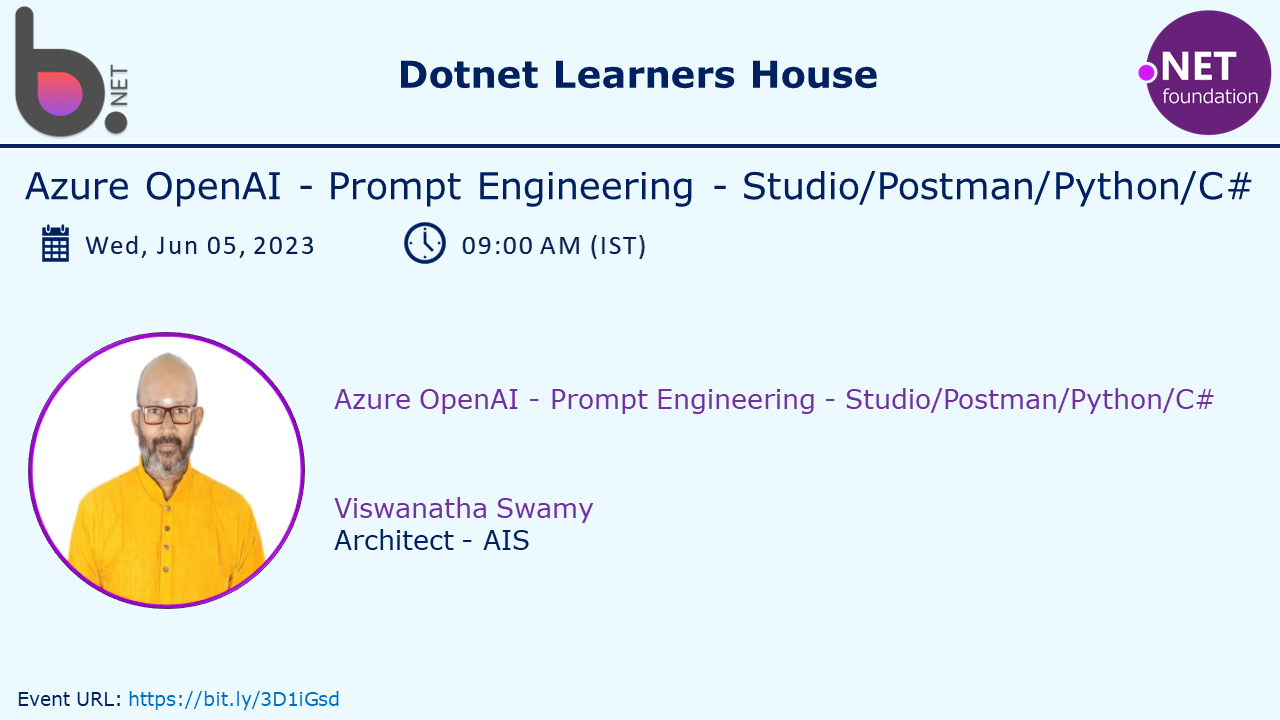
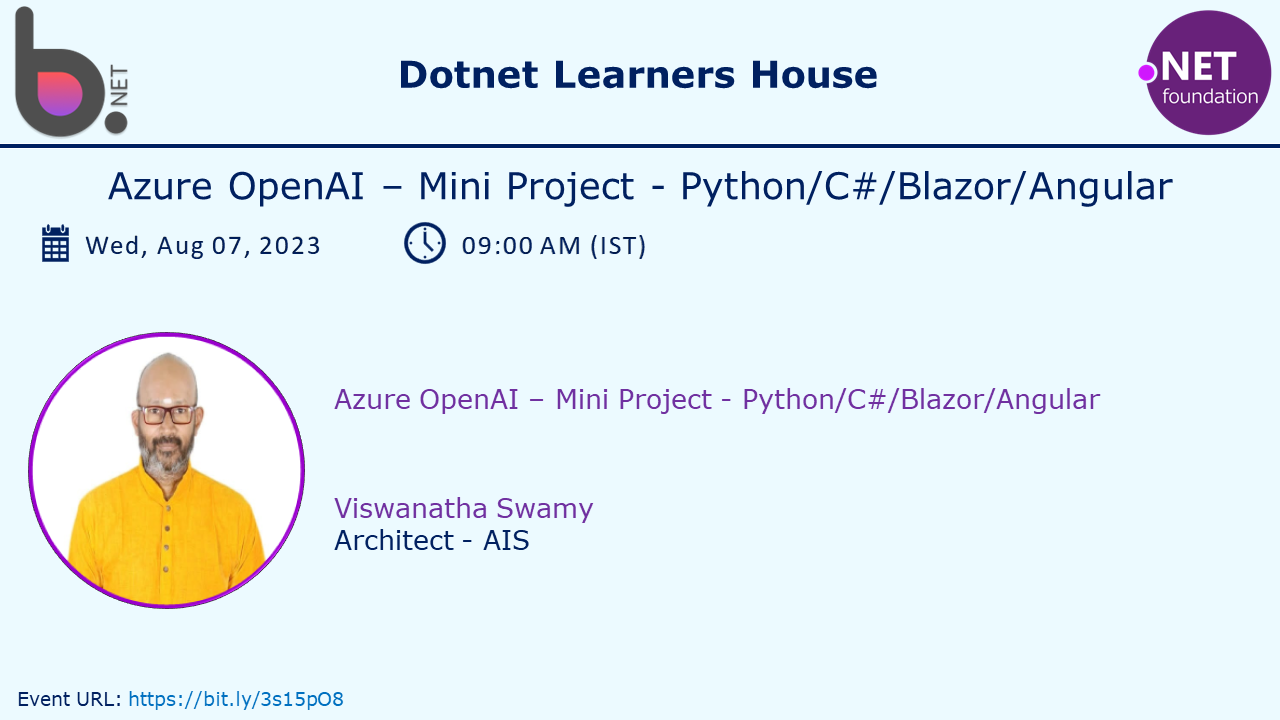
Swamy/07aug azure openai session (#63)
* Initial Version

* Changes

* Documentation

* Update README.md

* Changes

* Documentation Updates

* Documentation Updates

* Update README.md

* Changes

* Documentation Updates

* Update README.md

diff --git a/AzureOpenAI/20230807_AzureOpenAI_MiniProject/README.md b/AzureOpenAI/20230807_AzureOpenAI_MiniProject/README.md
@@ -1,4 +1,4 @@
-# Azure OpenAI - Mini Project - Python, Postman, .NET 7, Azure SQL, and Angular
+# Azure OpenAI - Mini Project - Python, Azure SQL, .NET 7 Minimal API, Blazor Server, and Postman
 
 ## Date Time: 07-Aug-2023 at 09:00 AM IST
 
@@ -32,7 +32,19 @@
 
 ## What are we doing today?
 
-> 1. To be decided
+> 1. Setting up Azure SQL Database, Tables and Stored Procedures
+>    - Table Creation
+>    - Stored Procedure Creation
+> 1. Create a Python Flask Web API to Invoke SQL Stored Procedure
+>    - Python Flask Web API Project Structure
+>    - How to execute the Python Flask API?
+> 1. Testing Python Flask Web API using Postman
+> 1. Integrating Python Flask Web API using Blazor Server App
+>    - Blazor Server App Project Structure
+>    - Blazor Server App Consuming Python Flask Web API
+> 1. Retrieving Countries Information using .NET 7 Minimal API
+>    - .NET 7 Minimal API Project Structure
+> 1. Testing Countries Information .NET 7 Minimal API using Postman
 > 1. SUMMARY / RECAP / Q&A
 > 1. What is next ?
 
@@ -44,9 +56,76 @@
 
 ---
 
-## 1. To be decided
+## 1. Setting up Azure SQL Database, Tables and Stored Procedures
 
-### How to execute the Python Flask API?
+> 1. Discussion on Azure SQL Database, Tables and Stored Procedures
+
+```sql
+SELECT * FROM [dbo].[CountriesInfo]
+
+-- delete [dbo].[CountriesInfo]
+```
+
+### 1.1. Table Creation
+
+```sql
+CREATE TABLE CountriesInfo (
+    [CountryId] INT IDENTITY (1, 1) NOT NULL PRIMARY KEY,
+    [CountryName] NVARCHAR(100),
+    [CapitalState] NVARCHAR(100),
+    [NationalBird] NVARCHAR(100),
+    [CountryPopulation] BIGINT
+);
+```
+
+### 1.2. Stored Procedure Creation
+
+```sql
+CREATE PROCEDURE [dbo].[usp_insert_country_info]
+    @CountryName NVARCHAR(100),
+    @CapitalState NVARCHAR(100),
+    @NationalBird NVARCHAR(100),
+    @CountryPopulation BIGINT,
+    @CountryId INT OUTPUT
+AS
+BEGIN
+    
+    SET NOCOUNT ON;
+
+    INSERT INTO CountriesInfo 
+        (CountryName, CapitalState, NationalBird, CountryPopulation)
+    VALUES 
+        (@CountryName, @CapitalState, @NationalBird, @CountryPopulation);
+
+    SET @CountryId = SCOPE_IDENTITY();
+
+    SELECT @CountryId AS CountryId;
+    
+END;
+```
+
+![Azure SQL Assets | 100x100](./Documentation/Images/Azure_Sql_Assets.PNG)
+
+## 2. Create a Python Flask Web API to Invoke SQL Stored Procedure
+
+> 1. Discussion and Demo
+> 1. **SQLAlchemy** is a Python ORM (Object-Relational Mapping) library that simplifies database interactions by allowing developers to work with Python classes and methods instead of raw SQL, making it easier to perform database operations.
+> 1. SQLAlchemy allows invoking a **stored procedure** using the db.session.execute() method, passing the stored procedure's text as a SQL expression along with parameters if required, and fetching the result if needed.
+
+### 2.1. Python Flask Web API Project Structure
+
+> 1. `api_routes.py`: This file contains API routes and handling for adding country information.
+> 1. `models.py`: This file defines the SQLAlchemy database model for the CountryInfoDto table.
+> 1. `db_config.py`: This file contains the SQLAlchemy database configuration using the db object.
+> 1. `env_config.py`: This file handles loading environment variables from the .env file.
+> 1. `error_handling.py`: This file contains the utility function for handling error responses.
+> 1. `GetCountryInfoFromAzureOpenAI.py`: This file handles integration with Azure OpenAI to fetch country information.
+> 1. `logging_config.py`: This file configures logging settings for the Flask app.
+> 1. `app.py`: This file is the entry point of the Flask application and sets up the app with configurations.
+
+![Python Flask Web API Project Structure | 100x100](./Documentation/Images/PythonFlaskAPI_Structure.PNG)
+
+### 2.2. How to execute the Python Flask API?
 
 ```python
 flask --app app run
@@ -55,6 +134,50 @@ python .\app.py
 ```
 
 ![Execute Python Flask API | 100x100](./Documentation/Images/Executing_Flask_App.PNG)
+
+## 3. Testing Python Flask Web API using Postman
+
+> 1. Discussion and Demo
+
+![Execute Python Flask API | 100x100](./Documentation/Images/SessionFirstLook.PNG)
+
+## 4. Integrating Python Flask Web API using Blazor Server App
+
+> 1. Discussion and Demo
+
+### 4.1. Blazor Server App Project Structure
+
+> 1. `Properties` folder: This folder contains the launchSettings.json file that contains the configuration for launching the app.
+> 1. `wwwroot` folder: This folder contains the static files that are served by the app.
+> 1. `Pages` folder: This folder contains the Razor components that define the UI of the app.
+> 1. `Shared` folder: This folder contains the Razor components that are shared across multiple pages.
+> 1. `Program.cs`: This file contains the entry point of the app.
+
+![Blazor App Project Structure | 100x100](./Documentation/Images/BlazorApp_ProjectStructure.PNG)
+
+### 4.2. Blazor Server App Consuming Python Flask Web API
+
+![Blazor Server App Consuming Python Flask Web API | 100x100](./Documentation/Images/BlazorApp_1.PNG)
+
+![Blazor Server App Consuming Python Flask Web API | 100x100](./Documentation/Images/BlazorApp_2.PNG)
+
+## 5. Retrieving Countries Information using .NET 7 Minimal API
+
+> 1. Discussion and Demo
+
+### 5.1. .NET 7 Minimal API Project Structure
+
+> 1. `Program.cs`: This file contains the entry point of the app.
+
+![.NET 7 Minimal API Project Structure | 100x100](./Documentation/Images/MinimalAPI_ProjectStructure.PNG)
+
+![.NET 7 Minimal API Swagger | 100x100](./Documentation/Images/MinimalAPI_Swagger.PNG)
+
+## 6. Testing Countries Information .NET 7 Minimal API using Postman
+
+> 1. Discussion and Demo
+
+![.NET 7 Minimal API Postman | 100x100](./Documentation/Images/MinimalAPI_Postman.PNG)
 
 ---
 
